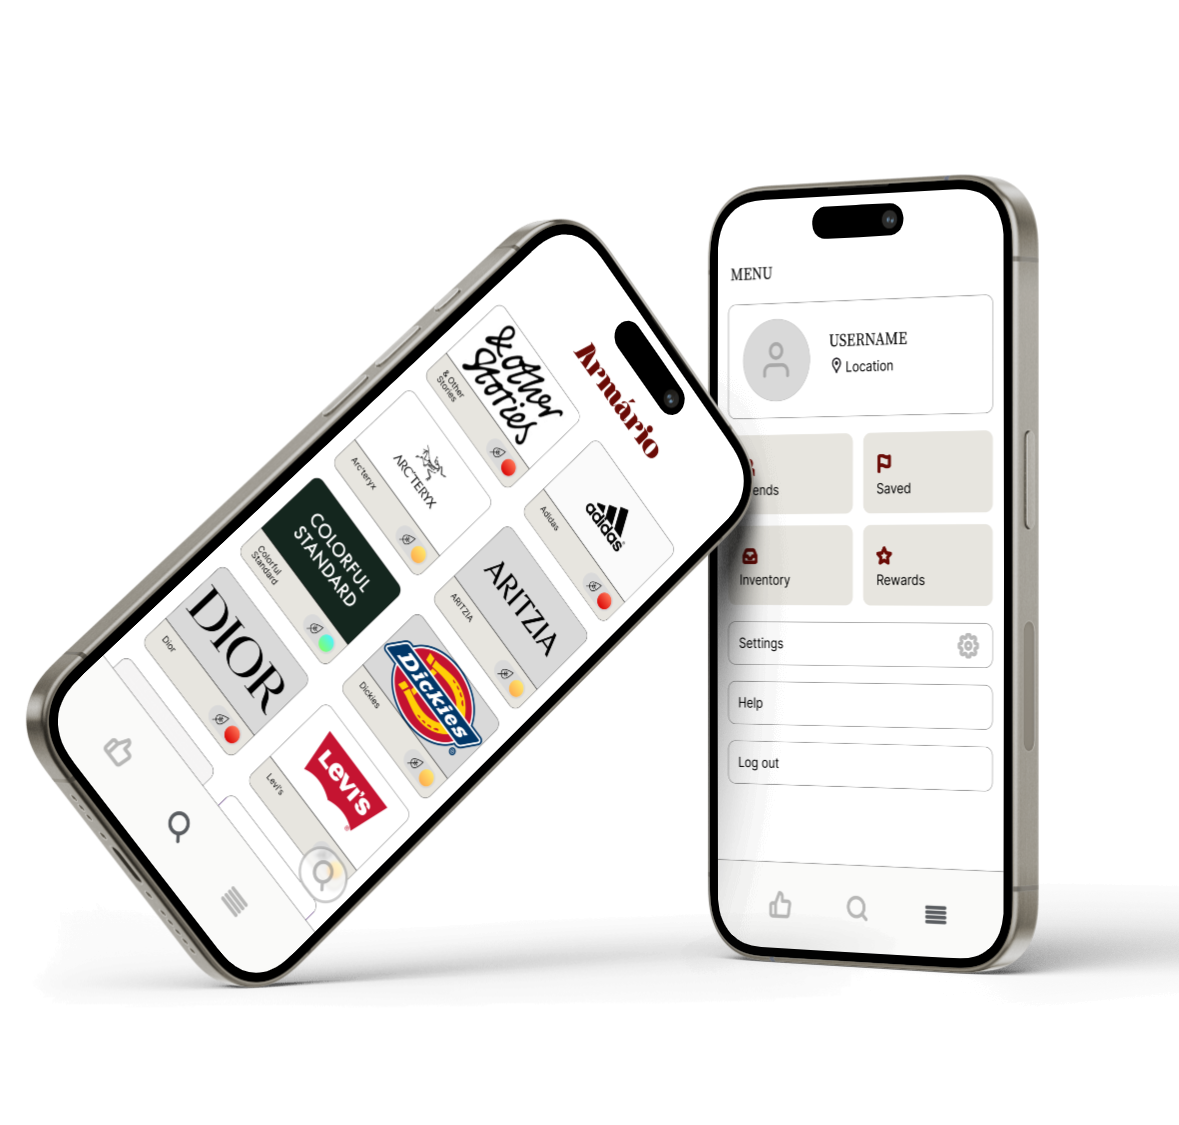
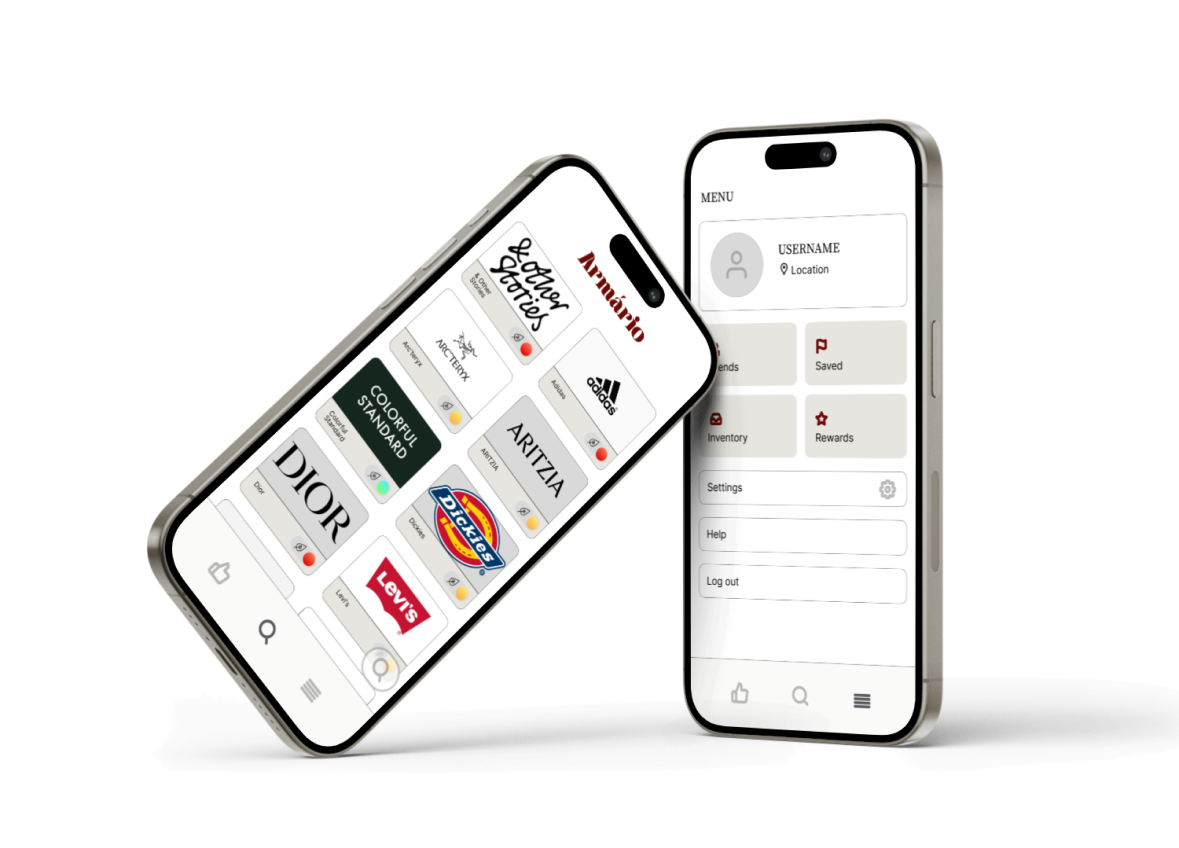
fix: updated margin att, fixed image

Changed region(s): [[0.0, 0.1226, 1.0, 0.9198]]

diff --git a/styles.css b/styles.css
@@ -37,7 +37,8 @@ body {
 
 .photo {
     padding: 0;
-    margin: 0;
+    margin-left: auto;
+    margin-right: auto;
     overflow: hidden
 }
 
